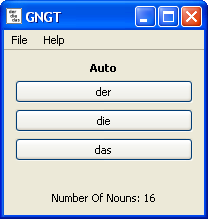
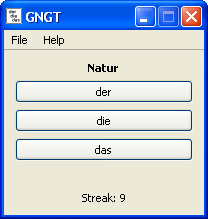
updated for v0.7 release

diff --git a/downloads.html b/downloads.html
@@ -11,12 +11,12 @@
 <div id="Content">
 
 	<h1>Windows</h1>
-	<p><a href="https://github.com/downloads/lawand/gngt/gngt_v0.6_win_i386_static.zip">GNGT v0.6 i386 Static - 3.6MB</a> (binary statically linked against Qt4).</p>
+	<p><a href="https://github.com/downloads/lawand/gngt/GNGT%20v0.7%20(Windows).zip">GNGT v0.7 - 3.6MB</a></p>
 	<p>Supported versions of the Windows operating system are 32bit Editions of Windows XP, Windows Vista and Windows 7.</p>
 	
 	<h1>Source</h1>
-	<p><a href="https://github.com/lawand/gngt/zipball/v0.6/">v0.6 - ZIP</a></p>
-	<p><a href="https://github.com/lawand/gngt/tarball/v0.6/">v0.6 - TAR.GZ</a></p>
+	<p><a href="https://github.com/lawand/gngt/zipball/v0.7/">v0.7 - ZIP</a></p>
+	<p><a href="https://github.com/lawand/gngt/tarball/v0.7/">v0.7 - TAR.GZ</a></p>
 	
 	<h1>Archive</h1>
 	<p>Older versions can be found at <a href="https://github.com/lawand/gngt/downloads/">Github</a>.</p>

diff --git a/index.html b/index.html
@@ -14,6 +14,7 @@
 	<p>GNGT is a small application which helps German learners memorize genders of German nouns through memorizing their corresponding definite articles (der, die or das).</p>
 	
 	<h1>Latest News</h1>
+	<p>2010-11-19: v0.7 released (new features: keep track of the memorization of nouns)</p>
 	<p>2010-11-17: v0.6 released (a bug-fix release, no new features).</p>
 	<p>2010-11-15: v0.5 released (new features: ability to edit nouns using GUI).</p>
 	<p>2010-11-12: v0.4 released (new features: ability to fix erroneous lines at startup, writing nouns to nouns file at exit).</p>
